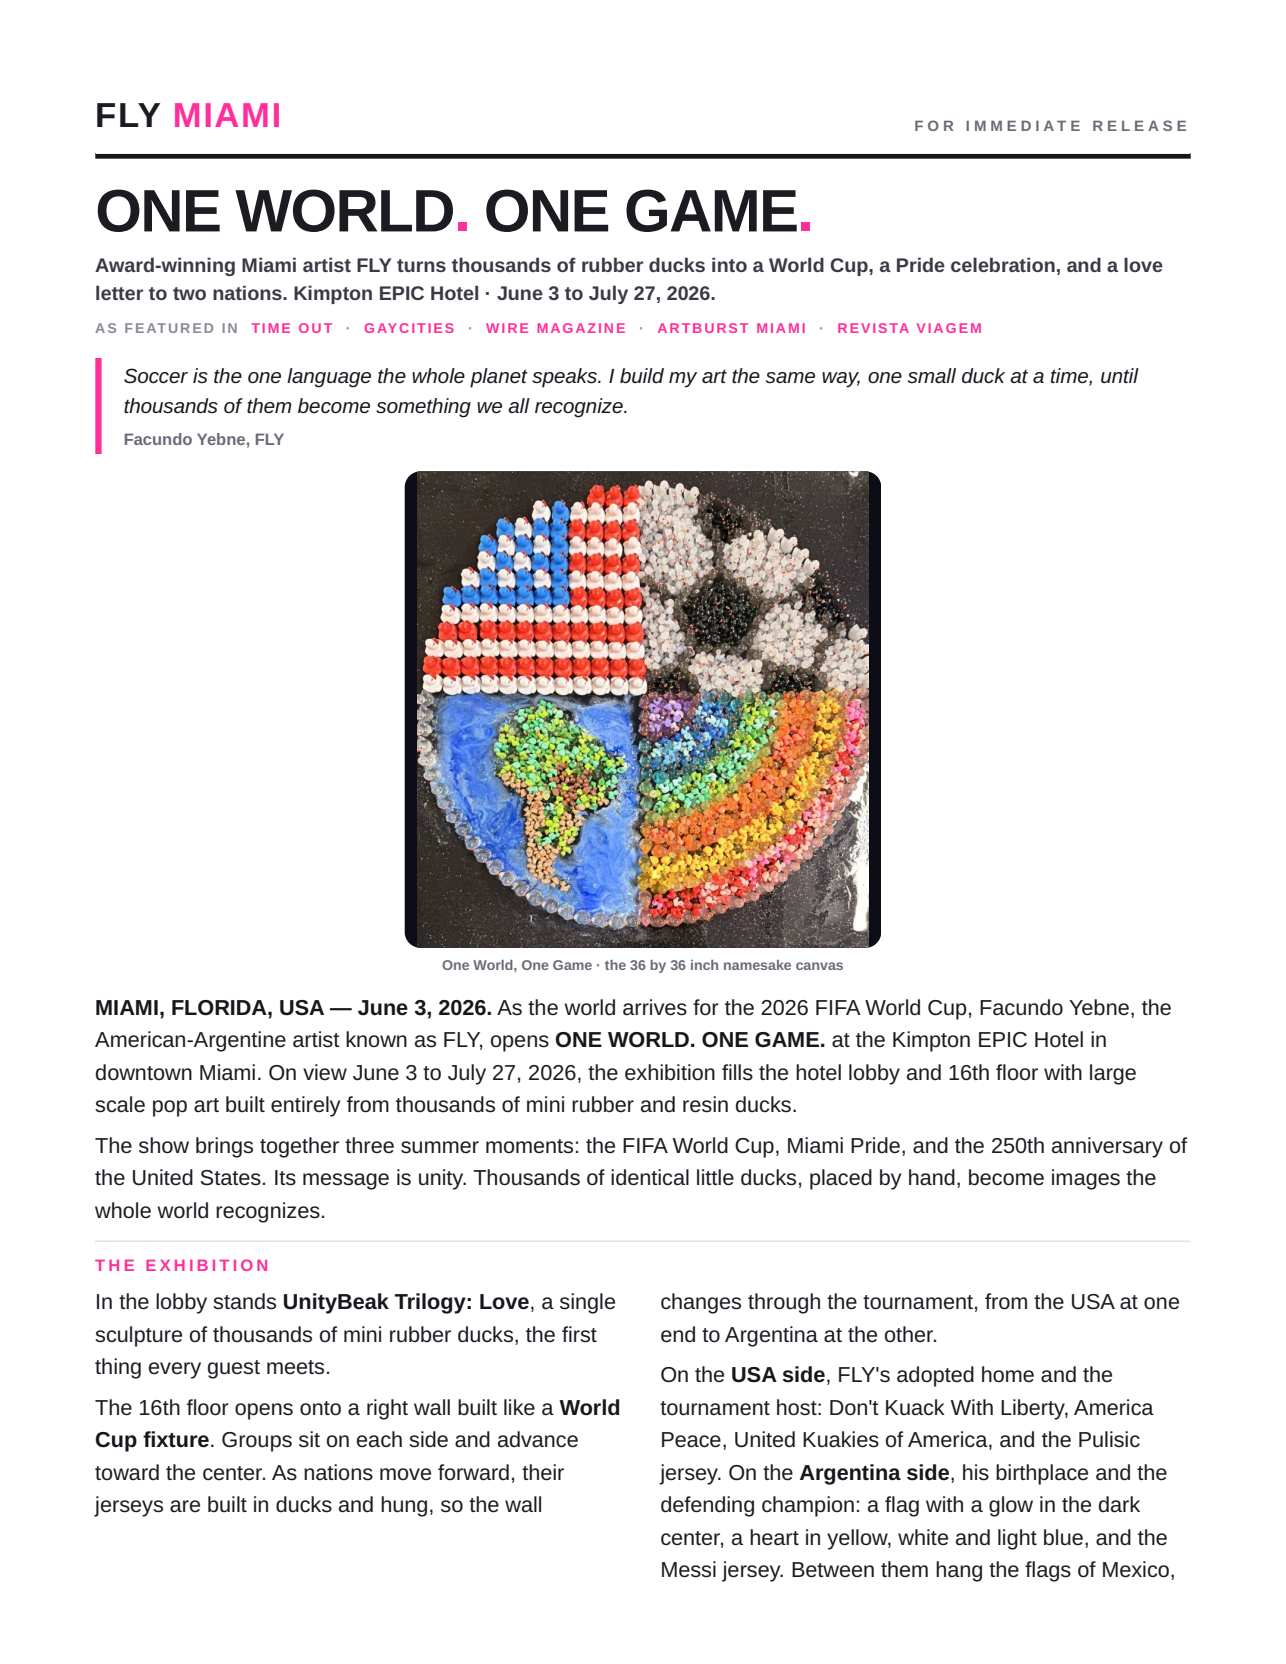
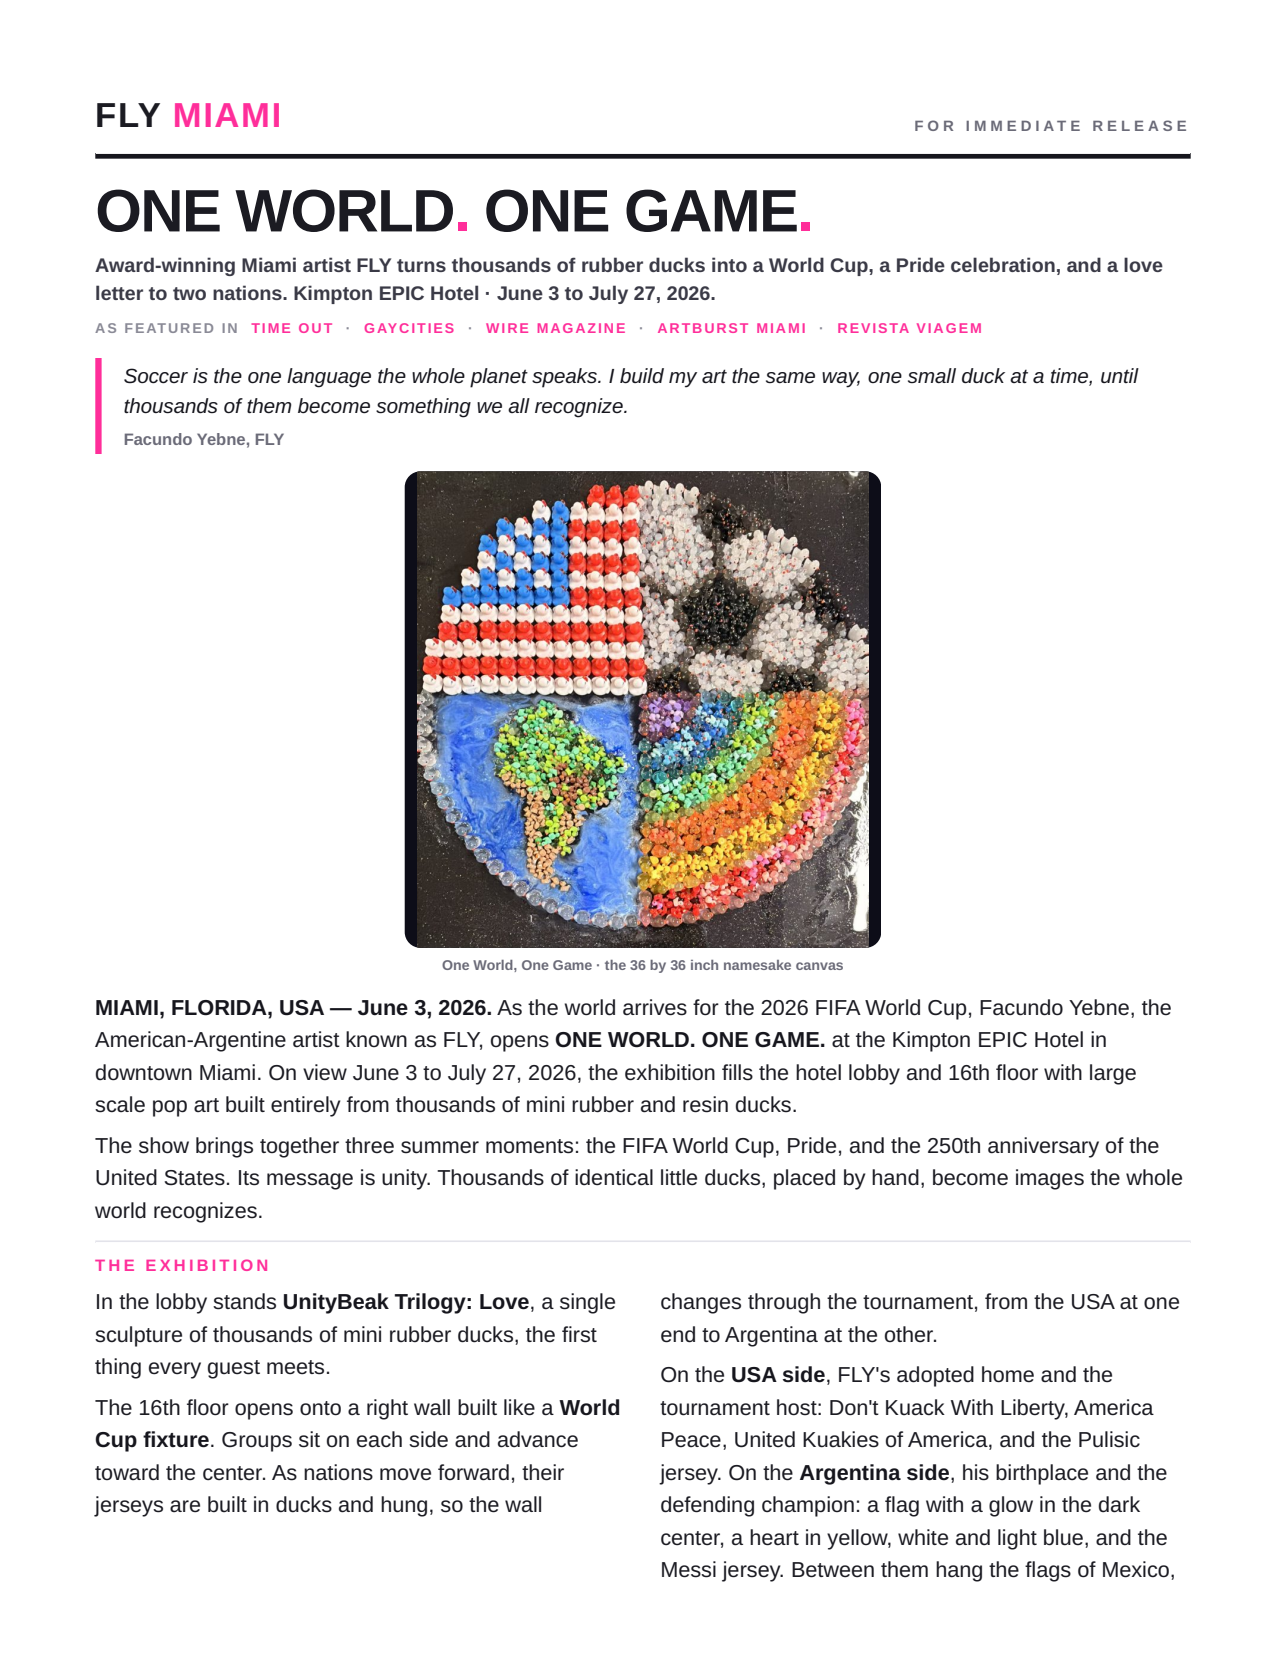
Replace Miami Pride with Pride across kiosk and press release; rebuild PDF; bump cache to v4

Changed region(s): [[0.0622, 0.6875, 0.9331, 0.75]]

diff --git a/kiosk/kiosk-embed.html b/kiosk/kiosk-embed.html
@@ -49,7 +49,7 @@
 </style>
 <script>
 (function(){
-var ARTIST={name:"Facundo Yebne",handle:"@flymiami.art",show:"Kimpton EPIC Hotel, Downtown Miami",when:"Summer 2026 (June to July)",themes:"USA 250 · Miami Pride · FIFA World Cup 2026",about:"I'm Facundo Yebne, FLY. I build sculptures and wall works out of thousands of rubber and resin ducks. One material, one message: peace, love, and joy. This EPIC residency lands right as the world arrives in Miami for the World Cup, Pride, and the USA 250th, so the whole floor is built around unity."};
+var ARTIST={name:"Facundo Yebne",handle:"@flymiami.art",show:"Kimpton EPIC Hotel, Downtown Miami",when:"Summer 2026 (June to July)",themes:"USA 250 · Pride · FIFA World Cup 2026",about:"I'm Facundo Yebne, FLY. I build sculptures and wall works out of thousands of rubber and resin ducks. One material, one message: peace, love, and joy. This EPIC residency lands right as the world arrives in Miami for the World Cup, Pride, and the USA 250th, so the whole floor is built around unity."};
 var TH={USA:"🦅",PRIDE:"🌈",FIFA:"⚽",LOVE:"💗",MIAMI:"🦩"};
 var C="https://cdn.shopify.com/s/files/1/0997/7974/0016/files/";
 var ART=[
@@ -69,7 +69,7 @@ var ART=[
 ];
 var root=document.getElementById("flykiosk");
 root.innerHTML='<div class="fkhead"><div class="brand">FLY MIAMI <small>FACUNDO YEBNE · KIMPTON EPIC · 2026</small></div><div class="live">Tap an artwork &nbsp;·&nbsp; or ask me anything</div></div>'+
-'<div class="fkabout"><h2>About the show &amp; the artist</h2><p id="fkAbout"></p><div class="atags"><span class="USA">USA 250</span><span class="PRIDE">Miami Pride</span><span class="FIFA">FIFA World Cup 2026</span></div></div>'+
+'<div class="fkabout"><h2>About the show &amp; the artist</h2><p id="fkAbout"></p><div class="atags"><span class="USA">USA 250</span><span class="PRIDE">Pride</span><span class="FIFA">FIFA World Cup 2026</span></div></div>'+
 '<div class="fkmain"><section class="fkgal" id="fkGal"></section><aside class="fkguide"><div class="fkchat" id="fkChat"></div><div class="fkchips" id="fkChips"></div><div class="inrow"><input id="fkQ" placeholder="Ask about the show…" autocomplete="off"/><button class="btn" id="fkAsk">Ask</button><button class="btn alt" id="fkMic" title="Speak">🎤</button></div><div class="speakhint" id="fkTts">🔇 Voice OFF · tap to unmute</div></aside></div>';
 var ttsOn = false,selected=null;
 document.getElementById("fkAbout").innerHTML="<b>"+ARTIST.name+" (FLY) at the "+ARTIST.show+", "+ARTIST.when+".</b> "+ARTIST.about+" <b>13 works</b> across three threads — patriotism, Pride and the World Cup — priced $1,000–$10,000. Tap any piece to hear its story, or ask me anything. Find me at <b>"+ARTIST.handle+"</b>.";

diff --git a/kiosk/kiosk-embed.js b/kiosk/kiosk-embed.js
@@ -46,7 +46,7 @@
   var st = document.createElement("style"); st.textContent = CSS; document.head.appendChild(st);
   var root = document.createElement("div"); root.id = "flykiosk"; document.body.appendChild(root);
 
-  var ARTIST={name:"Facundo Yebne",handle:"@flymiami.art",show:"Kimpton EPIC Hotel, Downtown Miami",when:"Summer 2026 (June to July)",themes:"USA 250 · Miami Pride · FIFA World Cup 2026",about:"I'm Facundo Yebne, FLY. I build sculptures and wall works out of thousands of rubber and resin ducks. One material, one message: peace, love, and joy. This EPIC residency lands right as the world arrives in Miami for the World Cup, Pride, and the USA 250th, so the whole floor is built around unity."};
+  var ARTIST={name:"Facundo Yebne",handle:"@flymiami.art",show:"Kimpton EPIC Hotel, Downtown Miami",when:"Summer 2026 (June to July)",themes:"USA 250 · Pride · FIFA World Cup 2026",about:"I'm Facundo Yebne, FLY. I build sculptures and wall works out of thousands of rubber and resin ducks. One material, one message: peace, love, and joy. This EPIC residency lands right as the world arrives in Miami for the World Cup, Pride, and the USA 250th, so the whole floor is built around unity."};
   var TH={USA:"🦅",PRIDE:"🌈",FIFA:"⚽",LOVE:"💗",MIAMI:"🦩"};
   var C="https://cdn.shopify.com/s/files/1/0997/7974/0016/files/";
   var ART=[
@@ -66,7 +66,7 @@
   ];
 
   root.innerHTML='<div class="fkhead"><div class="brand">FLY MIAMI <small>FACUNDO YEBNE · KIMPTON EPIC · 2026</small></div><div class="live">Tap an artwork &nbsp;·&nbsp; or ask me anything</div></div>'+
-  '<div class="fkabout"><h2>About the show &amp; the artist</h2><p id="fkAbout"></p><div class="atags"><span class="USA">USA 250</span><span class="PRIDE">Miami Pride</span><span class="FIFA">FIFA World Cup 2026</span></div></div>'+
+  '<div class="fkabout"><h2>About the show &amp; the artist</h2><p id="fkAbout"></p><div class="atags"><span class="USA">USA 250</span><span class="PRIDE">Pride</span><span class="FIFA">FIFA World Cup 2026</span></div></div>'+
   '<div class="fkmain"><section class="fkgal" id="fkGal"></section><aside class="fkguide"><div class="fkchat" id="fkChat"></div><div class="fkchips" id="fkChips"></div><div class="inrow"><input id="fkQ" placeholder="Ask about the show…" autocomplete="off"/><button class="btn" id="fkAsk">Ask</button><button class="btn alt" id="fkMic" title="Speak">🎤</button></div><div class="speakhint" id="fkTts">🔇 Voice OFF · tap to unmute</div></aside></div>';
 
   var ttsOn = false,selected=null;

diff --git a/kiosk/press/one-world-one-game.html b/kiosk/press/one-world-one-game.html
@@ -58,7 +58,7 @@
   <div class="herocap">One World, One Game · the 36 by 36 inch namesake canvas</div>
 
   <p><span class="dl">MIAMI, FLORIDA, USA — June 3, 2026.</span> As the world arrives for the 2026 FIFA World Cup, Facundo Yebne, the American-Argentine artist known as FLY, opens <strong>ONE WORLD. ONE GAME.</strong> at the Kimpton EPIC Hotel in downtown Miami. On view June 3 to July 27, 2026, the exhibition fills the hotel lobby and 16th floor with large scale pop art built entirely from thousands of mini rubber and resin ducks.</p>
-  <p>The show brings together three summer moments: the FIFA World Cup, Miami Pride, and the 250th anniversary of the United States. Its message is unity. Thousands of identical little ducks, placed by hand, become images the whole world recognizes.</p>
+  <p>The show brings together three summer moments: the FIFA World Cup, Pride, and the 250th anniversary of the United States. Its message is unity. Thousands of identical little ducks, placed by hand, become images the whole world recognizes.</p>
 
   <h2>The Exhibition</h2>
   <div class="cols">

diff --git a/kiosk/preview-test.html b/kiosk/preview-test.html
@@ -85,7 +85,7 @@
     <h2>About the show &amp; the artist</h2>
     <p id="aboutText"></p>
     <div class="abouttags">
-      <span class="USA">USA 250</span><span class="PRIDE">Miami Pride</span><span class="FIFA">FIFA World Cup 2026</span>
+      <span class="USA">USA 250</span><span class="PRIDE">Pride</span><span class="FIFA">FIFA World Cup 2026</span>
     </div>
   </section>
   <main>
@@ -110,7 +110,7 @@ const ARTIST = {
   site: "flymiami.art",
   show: "Kimpton EPIC Hotel, Downtown Miami",
   when: "Summer 2026 (June to July)",
-  themes: "USA 250 · Miami Pride · FIFA World Cup 2026",
+  themes: "USA 250 · Pride · FIFA World Cup 2026",
   about:
     "I'm Facundo Yebne, FLY. I build sculptures and wall works out of thousands of rubber and resin ducks. " +
     "One material, one message: peace, love, and joy. This EPIC residency lands right as the world arrives in " +

diff --git a/show.js b/show.js
@@ -6,7 +6,7 @@ const ARTIST = {
   site: "flymiami.art",
   show: "Kimpton EPIC Hotel, Downtown Miami",
   when: "Summer 2026 (June to July)",
-  themes: "USA 250 · Miami Pride · FIFA World Cup 2026",
+  themes: "USA 250 · Pride · FIFA World Cup 2026",
   about:
     "I'm Facundo Yebne, FLY. I build sculptures and wall works out of thousands of rubber and resin ducks. " +
     "One material, one message: peace, love, and joy. This EPIC residency lands right as the world arrives in " +

diff --git a/index.html b/index.html
@@ -85,6 +85,6 @@
     </aside>
   </main>
 </div>
-<script src="show.js?v=3"></script>
+<script src="show.js?v=4"></script>
 </body>
 </html>
